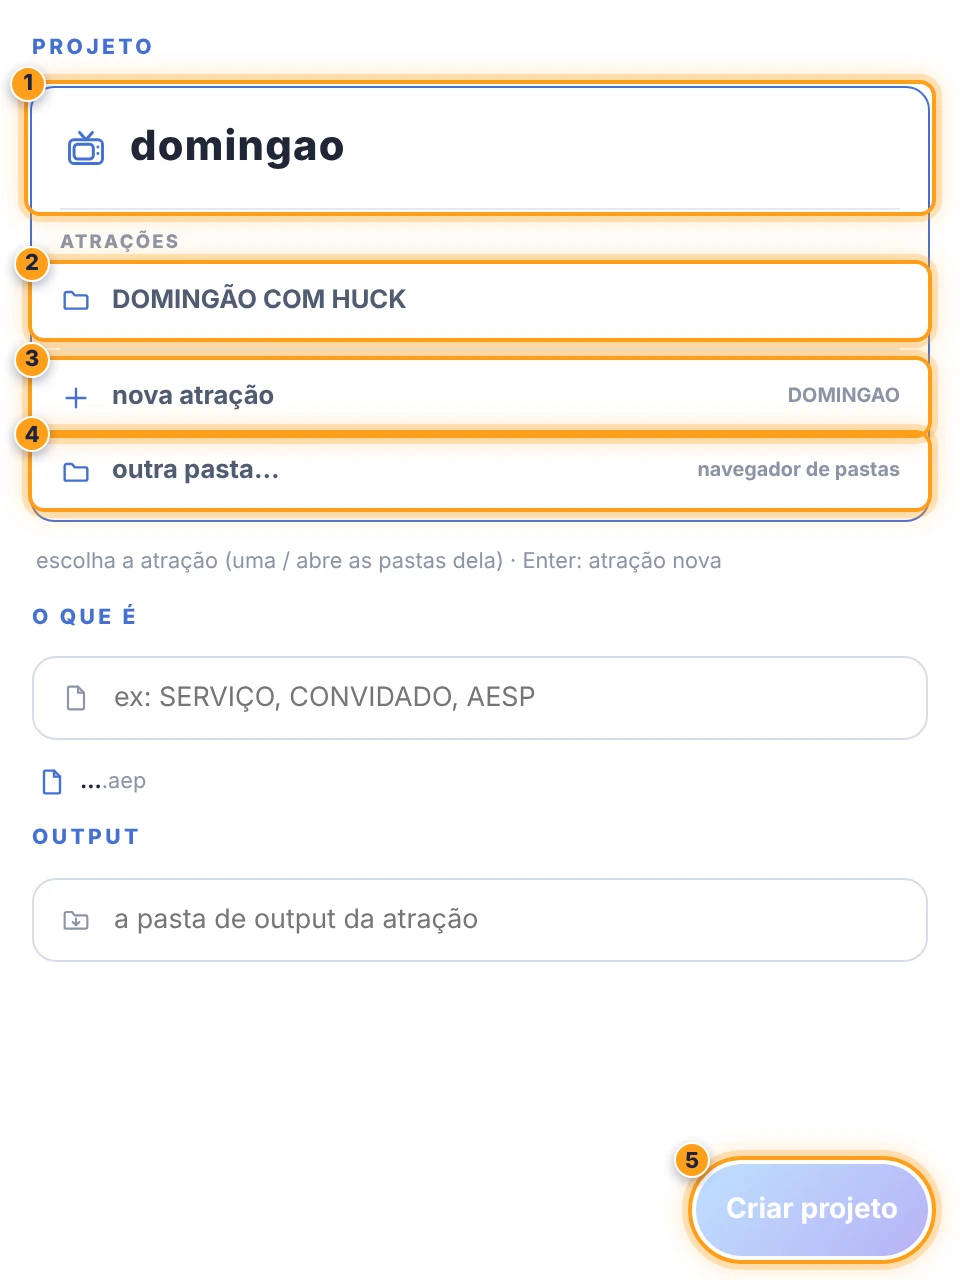
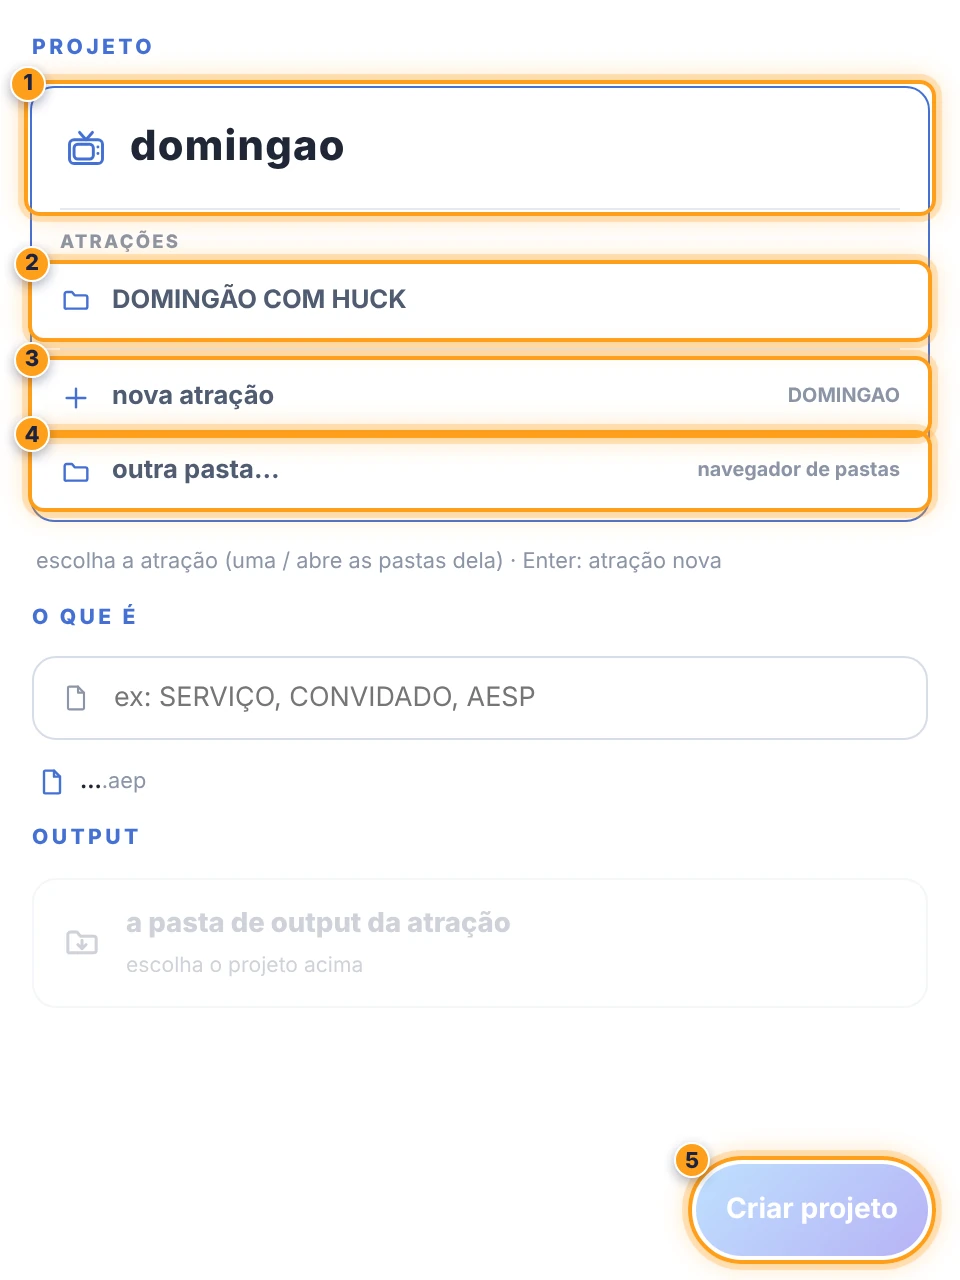
A CLAQUETE: o output num cartão com o escolhido (mudar abre o campo)
O campo vazio do output dava a impressão de que nada estava escolhido. Agora o output aparece num cartão
preenchido: a pasta em destaque (e as subpastas, com a marca de nova), o caminho embaixo e o botão mudar;
sem output, o cartão fica apagado. mudar (ou o clique) abre o campo com a lista; Enter, Esc ou sair do campo
voltam para o cartão.

Claude-Session: https://claude.ai/code/session_01DrYHfUyMEmqYvcFyKefNe2

Changed region(s): [[0.125, 0.6875, 0.5312, 0.7812], [0.0625, 0.7188, 0.0938, 0.75]]

diff --git a/extension/client/js/project.js b/extension/client/js/project.js
@@ -650,6 +650,8 @@ projetos com o nome certo).
 			state.outBaseFrom = pick.out || '';
 			state.outCustom = '';
 			state.outSkip = !pick.out;
+			state.outEditing = false;
+			state.outOpen = false;
 			$('out-in').value = '';
 			state.outWalk = null;
 		}
@@ -985,23 +987,66 @@ projetos com o nome certo).
 			}));
 			list.appendChild(ATR.row(SKIP_SVG, 'sem output', 'pular', state.outSkip, function () {
 				state.outSkip = true;
-				state.outOpen = false;
 				$('out-in').value = '';
-				$('out-in').blur();
-				renderOut();
+				state.outWalk = null;
+				outEdit(false);
 			}));
 		});
 		list.hidden = !open;
 		combo.classList.toggle('is-open', open);
 		if (open && hint) list.appendChild(el('p', 'combo-group', hint));
 
-		// a linha do destino
+		// mudando: o campo e a linha do destino; senão, o cartão com o escolhido
+		var editing = !!state.outEditing && !!flow.pick;
 		var dest = $('out-dest');
+		var segs = walk && (o.last || o.levels.length) ? walk.segs : [];
+
+		$('out-card').hidden = editing;
+		combo.hidden = !editing;
+		dest.hidden = !editing;
 
 		if (!flow.pick) hintLine(dest, '');
 		else if (state.outSkip) hintLine(dest, 'sem pasta de output (dá para escolher depois, no editor)');
 		else if (!base) hintLine(dest, 'a atração não tem pasta de output: escolha uma (outra pasta…) ou pule');
-		else destLine(dest, base, walk && (o.last || o.levels.length) ? walk.segs : []);
+		else destLine(dest, base, segs);
+
+		renderOutCard(base, segs);
+	}
+
+	// o cartão do output: a pasta escolhida (e as subpastas), o caminho embaixo e o "mudar"; apagado sem output
+	function renderOutCard(base, segs) {
+		var card = $('out-card');
+		var muted = !flow.pick || state.outSkip || !base;
+		var title = !flow.pick ? 'a pasta de output da atração' : state.outSkip ? 'sem output' : !base ? 'sem pasta de output' : [base.replace(/[\\\/]+$/, '').split(/[\\\/]/).pop()].concat(segs.map(function (seg) {
+			return seg.name;
+		})).join(' / ');
+		var path = !flow.pick ? 'escolha o projeto acima' : state.outSkip ? 'dá para escolher depois, no editor' : !base ? 'a atração não tem: clique para escolher uma, ou pule' : String(base).replace(/\\/g, '/') + segs.map(function (seg) {
+			return '/' + seg.name;
+		}).join('');
+
+		card.classList.toggle('is-muted', muted);
+		card.disabled = !flow.pick;
+		$('out-card-icon').innerHTML = muted && flow.pick ? SKIP_SVG : OUTPUT_SVG;
+		$('out-card-title').textContent = title;
+		$('out-card-new').hidden = !segs.some(function (seg) {
+			return seg.isNew;
+		});
+		$('out-card-path').textContent = '\u200E' + path + '\u200E';
+		card.title = muted ? 'escolher a pasta de output' : path;
+	}
+
+	// abre o campo do output (com a lista) e fecha de volta para o cartão
+	function outEdit(on) {
+		state.outEditing = on;
+		state.outOpen = on;
+		renderOut();
+		if (on) {
+			var input = $('out-in');
+
+			input.focus();
+			input.setSelectionRange(input.value.length, input.value.length);
+			outLookup(true);
+		}
 	}
 
 	// o output que vai para o projeto: a pasta de partida + as subpastas (as novas são criadas)
@@ -1602,19 +1647,25 @@ projetos com o nome certo).
 			}
 			outLookup(true);
 		});
+		// saindo do campo (ou Enter, ou Esc): fica o digitado e volta o cartão
 		$('out-in').addEventListener('blur', function () {
 			setTimeout(function () {
-				if ($('out-combo').contains(document.activeElement)) return;
-				state.outOpen = false;
-				renderOut();
+				if ($('out-combo').contains(document.activeElement) || !state.outEditing) return;
+				outEdit(false);
 			}, 150);
 		});
 		onEnter('out-in', function () {
-			if (!state.outOpen) return create();
-
 			$('out-in').value = $('out-in').value.replace(/\/+\s*$/, '');
-			state.outOpen = false;
 			outLookup(false);
+			outEdit(false);
+		});
+		$('out-in').addEventListener('keydown', function (e) {
+			if (e.key !== 'Escape') return;
+			e.preventDefault();
+			outEdit(false);
+		});
+		$('out-card').addEventListener('click', function () {
+			outEdit(true);
 		});
 
 		$('criar-go').addEventListener('click', function () {

diff --git a/extension/client/css/project.css b/extension/client/css/project.css
@@ -1197,3 +1197,126 @@ p.wz-exist b {
   padding-top: 16px;
   background: linear-gradient(to top, var(--surface) 72%, transparent);
 }
+
+/* =========================================================
+   o output escolhido, num cartão (sem cara de campo vazio): a pasta em destaque, o caminho embaixo e o "mudar";
+   apagado sem output. o clique abre o campo
+   ========================================================= */
+
+.out-card {
+  display: flex;
+  width: 100%;
+  min-width: 0;
+  align-items: center;
+  gap: 12px;
+  padding: 12px 14px;
+  border: 1px solid var(--border-strong);
+  border-radius: var(--radius-small);
+  background: var(--surface-soft);
+  color: var(--text-primary);
+  cursor: pointer;
+  font: inherit;
+  text-align: left;
+  transition:
+    border-color 180ms ease,
+    background-color 180ms ease;
+}
+
+.out-card:hover:not(:disabled) {
+  border-color: var(--border-hover);
+}
+
+.out-card:focus-visible {
+  outline: 1px solid var(--blue-500);
+  outline-offset: 2px;
+}
+
+.out-card:disabled {
+  cursor: default;
+}
+
+.out-card.is-muted {
+  border-color: var(--border);
+  background: transparent;
+}
+
+.out-card-icon {
+  display: grid;
+  flex: 0 0 auto;
+  place-items: center;
+}
+
+.out-card-icon svg {
+  width: 20px;
+  height: 20px;
+  fill: none;
+  stroke: var(--blue-500);
+  stroke-linecap: round;
+  stroke-linejoin: round;
+  stroke-width: 1.8;
+}
+
+.out-card.is-muted .out-card-icon svg {
+  stroke: var(--text-tertiary);
+}
+
+.out-card-text {
+  display: grid;
+  min-width: 0;
+  flex: 1 1 auto;
+  gap: 3px;
+}
+
+.out-card-title {
+  display: flex;
+  min-width: 0;
+  align-items: center;
+  gap: 6px;
+}
+
+.out-card-title b {
+  overflow: hidden;
+  min-width: 0;
+  font-size: 0.86rem;
+  font-weight: 800;
+  text-overflow: ellipsis;
+  white-space: nowrap;
+}
+
+.out-card-title .wz-new {
+  flex: 0 0 auto;
+  margin-left: 0;
+}
+
+.out-card.is-muted .out-card-title b {
+  color: var(--text-tertiary);
+}
+
+/* o caminho corta pelo começo (o fim é o que muda) */
+.out-card-text small {
+  overflow: hidden;
+  color: var(--text-tertiary);
+  direction: rtl;
+  font-size: 0.66rem;
+  text-align: left;
+  text-overflow: ellipsis;
+  white-space: nowrap;
+}
+
+.out-card-edit {
+  flex: 0 0 auto;
+  padding: 5px 11px;
+  border-radius: var(--radius-pill);
+  box-shadow: inset 0 0 0 1px var(--border-strong);
+  color: var(--text-secondary);
+  font-size: 0.68rem;
+  font-weight: 800;
+}
+
+.out-card:hover:not(:disabled) .out-card-edit {
+  color: var(--text-primary);
+}
+
+.out-card:disabled .out-card-edit {
+  visibility: hidden;
+}

diff --git a/extension/client/project.html b/extension/client/project.html
@@ -65,15 +65,17 @@
 					</div>
 				</div>
 				<p class="wz-title">OUTPUT</p>
-				<!-- a pasta de output da atração; com barras, as subpastas dela (ou novas) -->
-				<div class="combo" id="out-combo">
+				<!-- o output escolhido, num cartão (sem cara de campo vazio); "mudar" (ou o clique) abre o campo: a pasta de
+				     output da atração e, com barras, as subpastas dela (ou novas) -->
+				<button type="button" class="out-card" id="out-card" title="mudar a pasta de output"><span class="out-card-icon" id="out-card-icon"></span><span class="out-card-text"><span class="out-card-title"><b id="out-card-title"></b><i class="wz-new" id="out-card-new" hidden>nova</i></span><small id="out-card-path"></small></span><span class="out-card-edit">mudar</span></button>
+				<div class="combo" id="out-combo" hidden>
 					<div class="has-field-icon combo-field">
 						<svg class="field-icon" viewBox="0 0 24 24" aria-hidden="true"><path d="M3.5 18V7.5A1.5 1.5 0 0 1 5 6h4l2 2.5h8a1.5 1.5 0 0 1 1.5 1.5v7a1.5 1.5 0 0 1-1.5 1.5H5A1.5 1.5 0 0 1 3.5 18z" /><path d="M12 11v5M9.5 13.5 12 16l2.5-2.5" /></svg>
 						<input type="text" class="cfg-input" id="out-in" placeholder="subpasta (opcional) · / para descer" spellcheck="false" autocomplete="off" aria-label="Subpasta de output">
 					</div>
 					<div class="combo-panel" id="out-list" role="listbox" aria-label="Output" hidden></div>
 				</div>
-				<p class="wz-preview wz-dest" id="out-dest"></p>
+				<p class="wz-preview wz-dest" id="out-dest" hidden></p>
 			</div>
 			<!-- a estrutura que o projeto novo vai ter (configuração > coletar), animada, enquanto o campo está vazio -->
 			<div class="shape-box" id="claq-shape"></div>

diff --git a/extension/scripts/ui-states.js b/extension/scripts/ui-states.js
@@ -32,7 +32,7 @@ async function projectTo(page, screen) {
 	await page.waitForTimeout(600);
 	await page.fill('#arq-what', 'vt');
 	await page.waitForTimeout(600);
-	await page.click('#out-in');
+	await page.click('#out-card');
 	await page.waitForTimeout(400);
 }
 

diff --git a/docs/projeto.md b/docs/projeto.md
@@ -40,7 +40,7 @@ tudo numa tela só: o **caminho** do projeto, o **o que é** e o **output**. que
 2. **O QUE É** → ex: `SERVIÇO`, `ELENCO`, `AESP`. o `.aep` é o **último nível do caminho** (ou a atração, sem pastas) + o que é, sem acentos e caracteres especiais, em maiúsculas: `DOMINGÃO/DANÇA DOS FAMOSOS` + `ABERTURA` → `DANCA DOS FAMOSOS ABERTURA.aep`; `MAIS VOCÊ` + `SERVIÇO` → `MAIS VOCE SERVICO.aep`. o nome muda enquanto você digita.
    - **já na pasta** → uma linha com o último `.aep` alterado da pasta de projetos (`hoje 14:32 · +2`).
    - **nome repetido** → o aviso e as duas saídas ali mesmo: **abrir o existente** ou **salvar como … 2** (o padrão).
-3. **OUTPUT** → começa na pasta de output da atração (do caminho de output da categoria, ou a do índice). digitar no campo funciona como no caminho do projeto: a lista mostra as subpastas, a barra desce, **nova pasta** cria uma no fim. de um clique: **pasta com o o que é** (`…/2026/SERVICO`), **outra pasta…** (o navegador de pastas) e **sem output** (não cria nem grava nada; dá para escolher depois, no editor). a linha de baixo mostra o destino, com as pastas novas marcadas.
+3. **OUTPUT** → um cartão com a pasta escolhida: a pasta de output da atração (do caminho de output da categoria, ou a do índice) em destaque e o caminho embaixo. **mudar** (ou o clique no cartão) abre o campo, que funciona como o do projeto: a lista mostra as subpastas, a barra desce, **nova pasta** cria uma no fim. de um clique: **pasta com o o que é** (`…/2026/SERVICO`), **outra pasta…** (o navegador de pastas) e **sem output** (não cria nem grava nada; dá para escolher depois, no editor). `Enter`, `Esc` ou sair do campo voltam para o cartão, com o escolhido (as pastas novas com a marca **nova**).
 4. **Criar projeto** (ou `Enter` no o que é) cria as pastas novas, a estrutura (`01_PROJETOS` com o `.aep`, `02_ARQUIVOS`, `03_SAIDA`, `04_REFS`…) e salva o `.aep`. no macOS, se o volume da rede do caminho (ex: `/Volumes/VFX`) não estiver montado, o padeiro monta antes, como o acessorista faz ao abrir uma pasta. `AUDIOS` e `DADOS` o [coletar](#-coletar-os-arquivos) cria quando o projeto usar áudio ou dados.
 
 > 🚩 *obs:* se a pasta da atração já tem uma pasta de projetos (`01 PROJETOS`, `01PROJETOS`, `PROJETOS`…), ela é usada.
